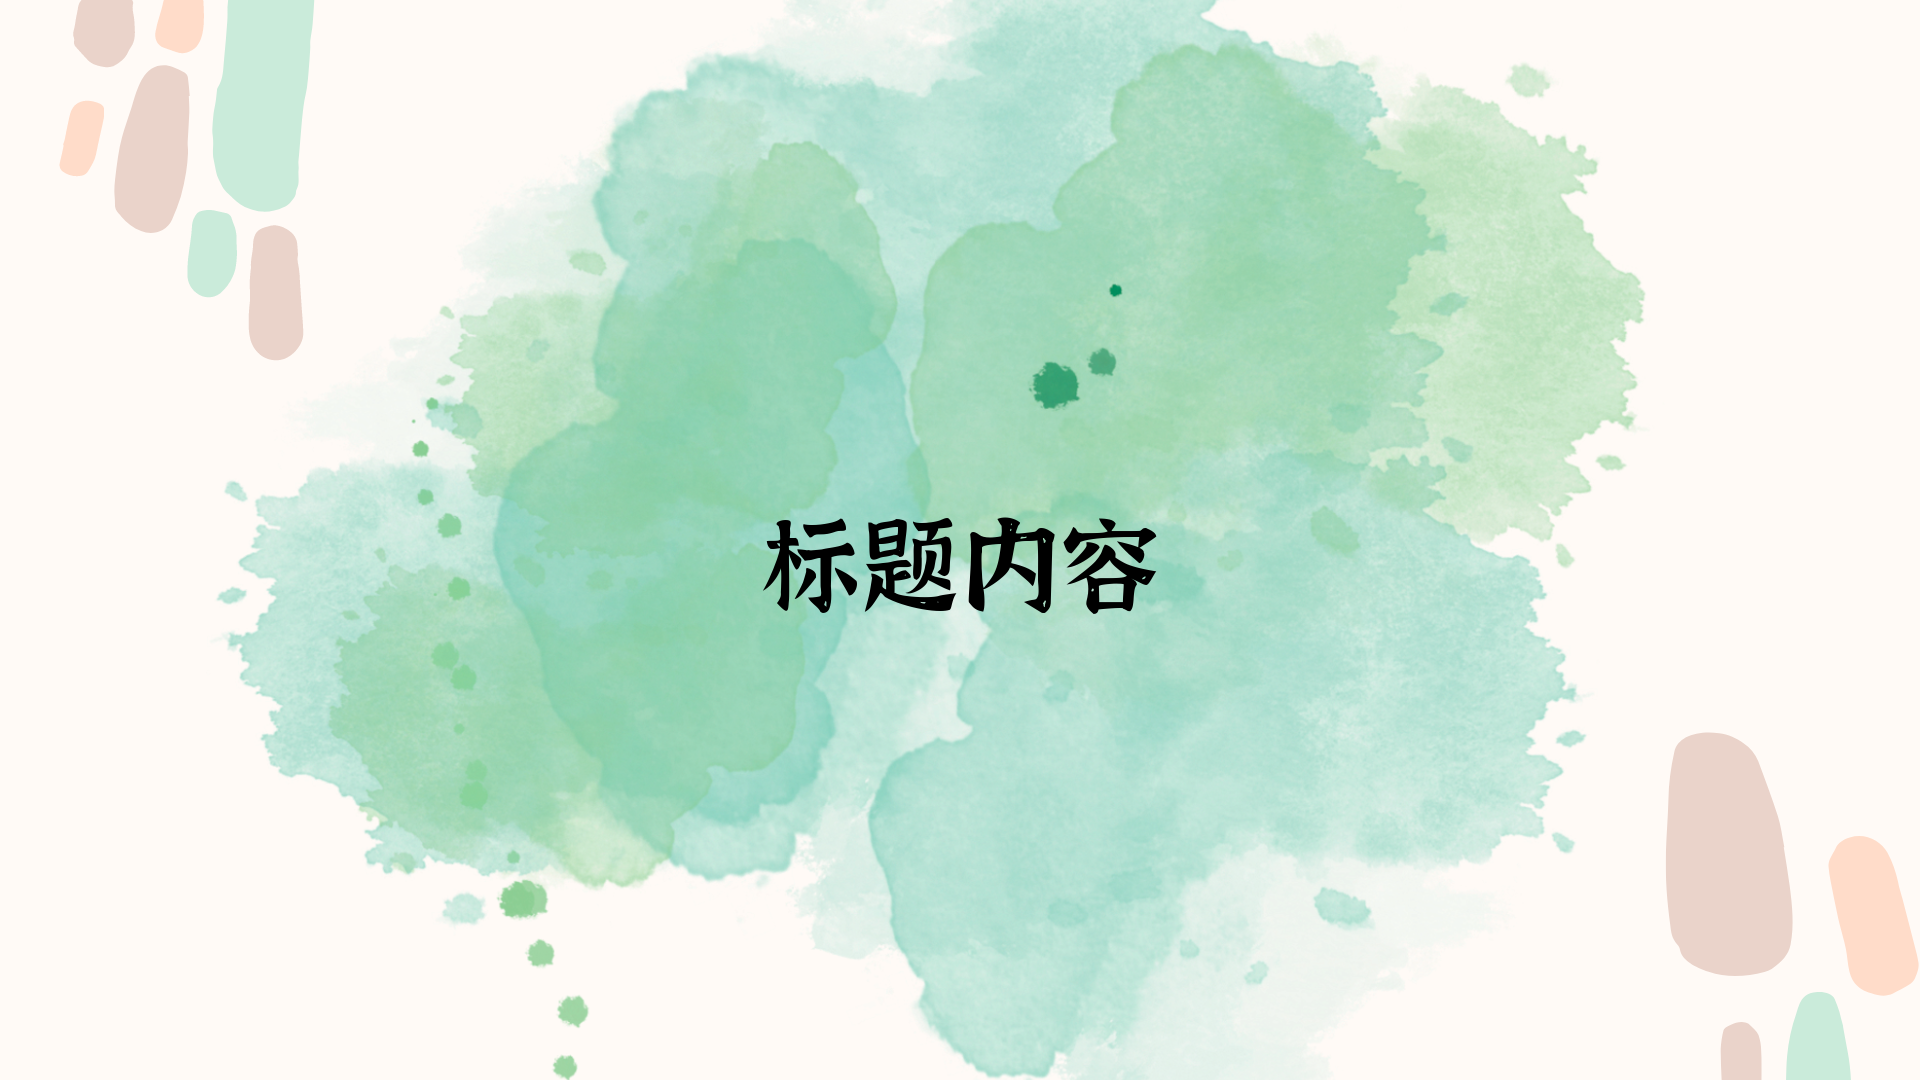
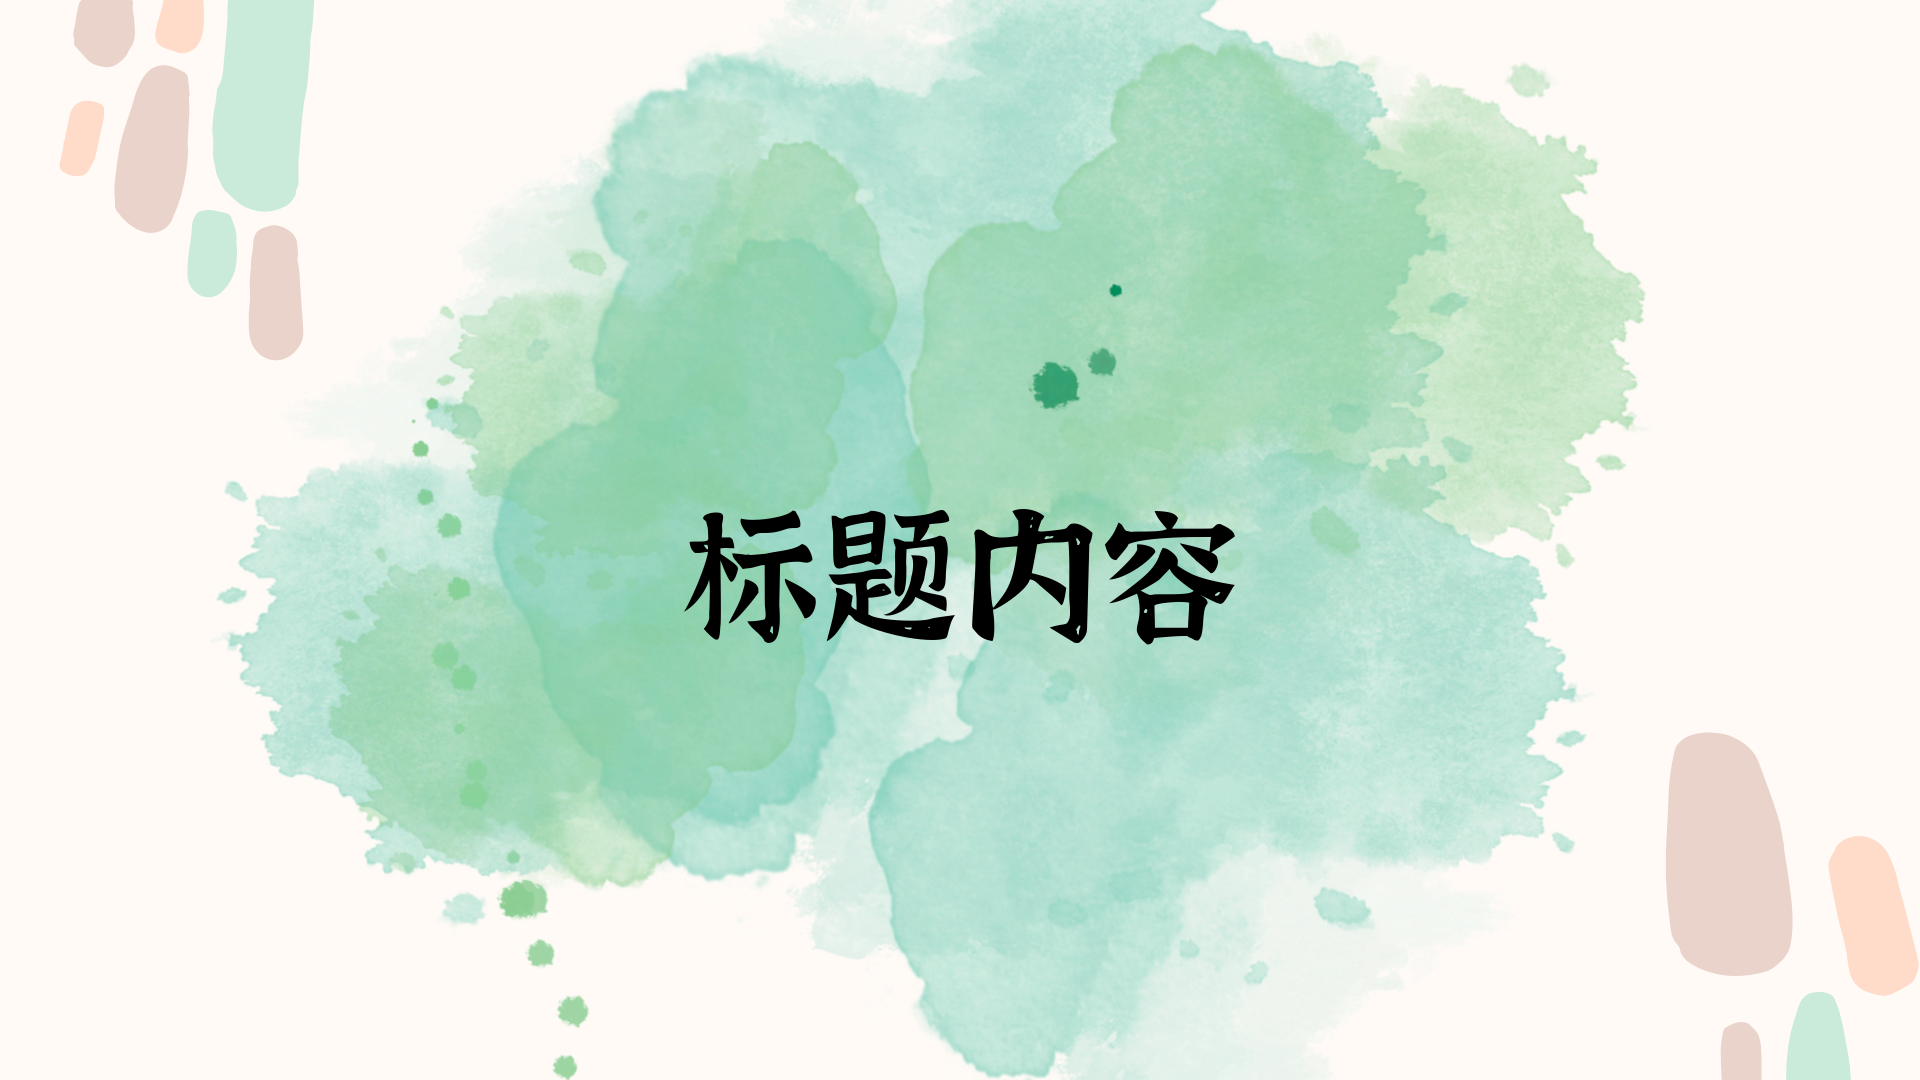
按照文字的中心位置作为位置参考。

Changed region(s): [[0.3438, 0.4583, 0.6562, 0.6111]]

diff --git a/src/main.py b/src/main.py
@@ -1,3 +1,4 @@
+import json
 from data_processing import read_excel_file
 from image_processing import load_image, calculate_text_position, add_text_to_image, save_image
 from PIL import ImageFont,Image
@@ -16,7 +17,18 @@ def load_templates(template_dir):
             templates.append(Image.open(os.path.join(template_dir, filename)))
     return templates
 
-def batch_generate_images(excel_file_path, template_dir, output_directory, font_path=None, title_font_size=40, content_font_size=20):
+def load_config(config_path):
+    """
+    加载配置文件
+
+    :param config_path: 配置文件路径
+    :return: 配置数据
+    """
+    with open(config_path, 'r') as f:
+        config = json.load(f)
+    return config
+
+def batch_generate_images(excel_file_path, template_dir, output_directory, font_path=None, config_path='config.json'):
     """
     批量生成图片，分别添加标题和内容。
 
@@ -24,19 +36,19 @@ def batch_generate_images(excel_file_path, template_dir, output_directory, font_
     :param template_dir: 模板目录路径
     :param output_directory: 输出目录路径
     :param font_path: 字体文件路径
-    :param title_font_size: 标题字体大小
-    :param content_font_size: 内容字体大小
+    :param config_path: 配置文件路径
     """
     data = read_excel_file(excel_file_path)
     templates = load_templates(template_dir)
+    config = load_config(config_path)
 
     if not os.path.exists(output_directory):
         os.makedirs(output_directory)
 
     # 加载字体
     try:
-        title_font = ImageFont.truetype(font_path, title_font_size) if font_path else ImageFont.load_default()
-        content_font = ImageFont.truetype(font_path, content_font_size) if font_path else ImageFont.load_default()
+        title_font = ImageFont.truetype(font_path, config['title_font_size']) if font_path else ImageFont.load_default()
+        content_font = ImageFont.truetype(font_path, config['content_font_size']) if font_path else ImageFont.load_default()
     except OSError:
         print(f"Cannot open font resource: {font_path}. Using default font.")
         title_font = ImageFont.load_default()
@@ -47,31 +59,32 @@ def batch_generate_images(excel_file_path, template_dir, output_directory, font_
         title = entry['标题']
         contents = entry['内容']
 
-        # 每条内容使用不同的背景图片模板
         for template_index, template in enumerate(templates):
-            # 生成标题图片
             image = template.copy()
             image_size = image.size
 
-            # 计算并添加标题
-            title_position, adjusted_title_font = calculate_text_position(image_size, title, title_font, position_type="center")
-            image = add_text_to_image(image, title, title_position, adjusted_title_font, "black")
+            title_position = (
+                int(image_size[0] * (config['title_position']['x_percent'] / 100)),
+                int(image_size[1] * (config['title_position']['y_percent'] / 100))
+            )
+            image = add_text_to_image(image, title, title_position, title_font, "black")
 
-            # 保存标题图片
             title_output_path = os.path.join(output_directory, f"title_{sequence_number}_{template_index}.png")
             save_image(image, title_output_path)
             print(f"Generated title image: {title_output_path}")
 
-            # 生成内容图片
             image = template.copy()
+            content_position = (
+                int(image_size[0] * (config['content_position']['x_percent'] / 100)),
+                int(image_size[1] * (config['content_position']['y_percent'] / 100))
+            )
             for i, content in enumerate(contents):
-                content_position, adjusted_content_font = calculate_text_position(image_size, content, content_font, position_type="center")
-                image = add_text_to_image(image, content, content_position, adjusted_content_font, "black")
+                image = add_text_to_image(image, content, content_position, content_font, "black")
 
-            # 保存内容图片
             content_output_path = os.path.join(output_directory, f"content_{sequence_number}_{template_index}.png")
             save_image(image, content_output_path)
             print(f"Generated content image: {content_output_path}")
+
 
 if __name__ == "__main__":
     excel_file_path = "data/data.xlsx"  # 确保路径正确
@@ -79,5 +92,5 @@ if __name__ == "__main__":
     output_directory = "images/output"  # 确保路径正确
     font_path = "font/江西拙楷2.0.ttf"  # 确保路径正确
 
-    # 调用函数时可以手动设置标题和内容的字体大小
-    batch_generate_images(excel_file_path, template_dir, output_directory, font_path, title_font_size=100, content_font_size=80)
+    # 调用函数时传递配置文件路径
+    batch_generate_images(excel_file_path, template_dir, output_directory, font_path, config_path='config.json')

diff --git a/src/image_processing.py b/src/image_processing.py
@@ -37,7 +37,10 @@ def calculate_text_position(image_size, text, font, position_type="center"):
     text_height = text_bbox[3] - text_bbox[1]
 
     if position_type == "center":
-        position = ((image_size[0] - text_width) // 2, (image_size[1] - text_height) // 2)
+        position = (
+            (image_size[0] - text_width) // 2,
+            (image_size[1] - text_height) // 2
+        )
     else:
         position = (10, 10)  # 默认左上角
 
@@ -46,17 +49,26 @@ def calculate_text_position(image_size, text, font, position_type="center"):
 
 def add_text_to_image(image, text, position, font, font_color="black"):
     """
-    在图像上添加文字。
+    在图像上添加文字，并确保文字居中。
 
     :param image: 图像对象
     :param text: 要添加的文字
-    :param position: 文字位置（x, y）
+    :param position: 文字位置（x, y），实际是文字的中心点位置
     :param font: 字体对象
     :param font_color: 字体颜色
     :return: 添加文字后的图像对象
     """
     draw = ImageDraw.Draw(image)
-    draw.text(position, text, font=font, fill=font_color)
+
+    # 计算文字的宽度和高度
+    text_bbox = draw.textbbox((0, 0), text, font=font)
+    text_width = text_bbox[2] - text_bbox[0]
+    text_height = text_bbox[3] - text_bbox[1]
+
+    # 调整位置，使其居中
+    adjusted_position = (position[0] - text_width // 2, position[1] - text_height // 2)
+
+    draw.text(adjusted_position, text, font=font, fill=font_color)
     return image
 
 
